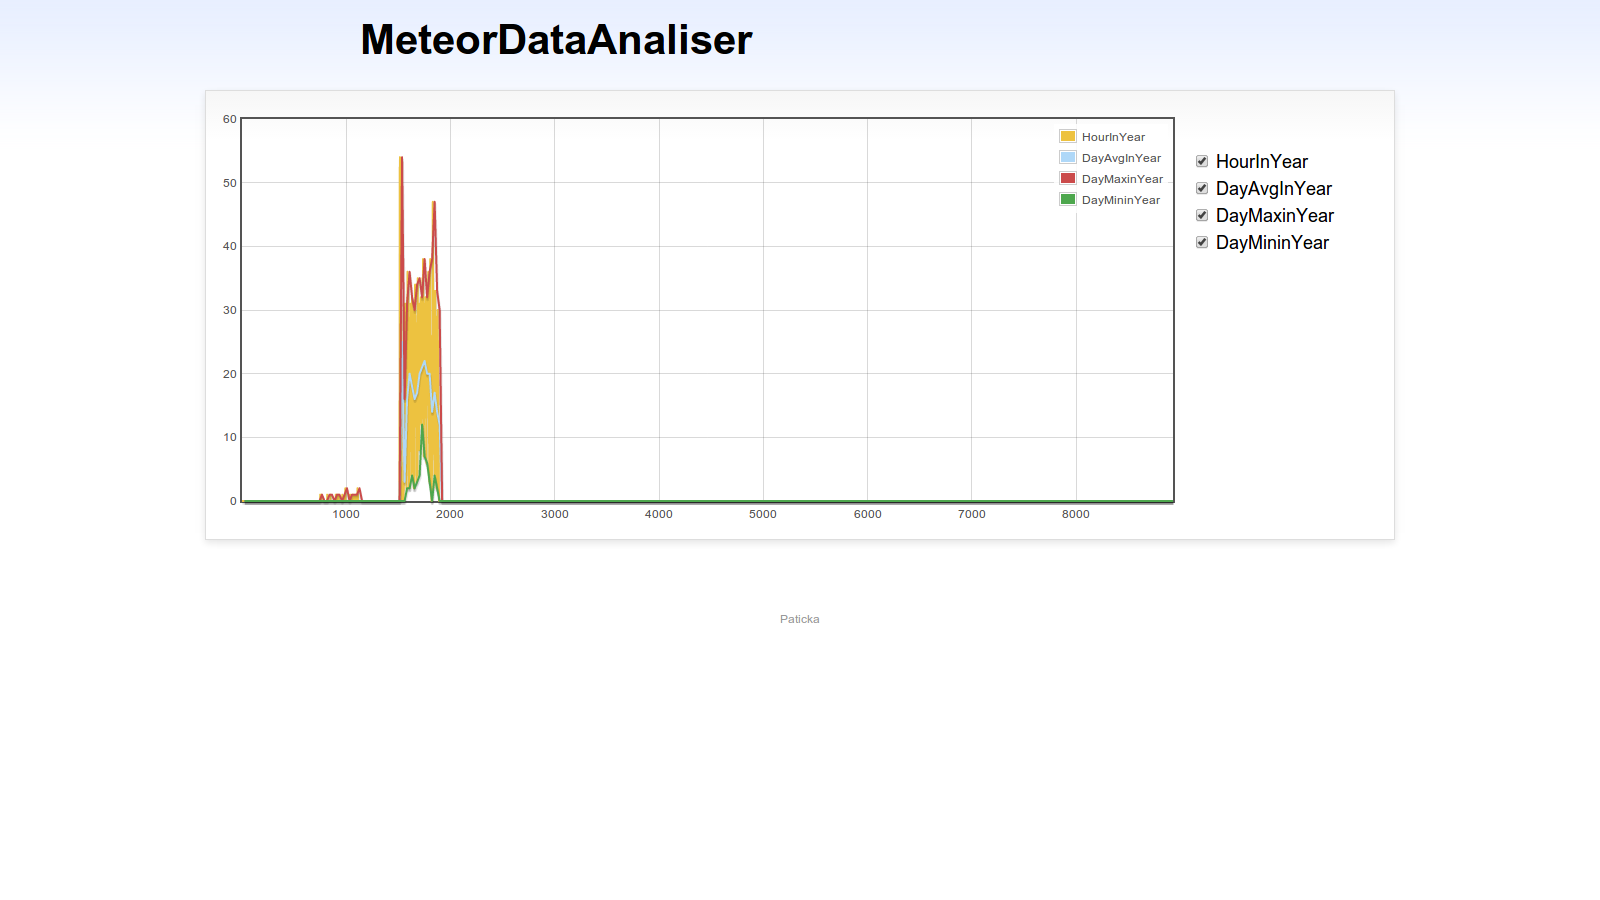
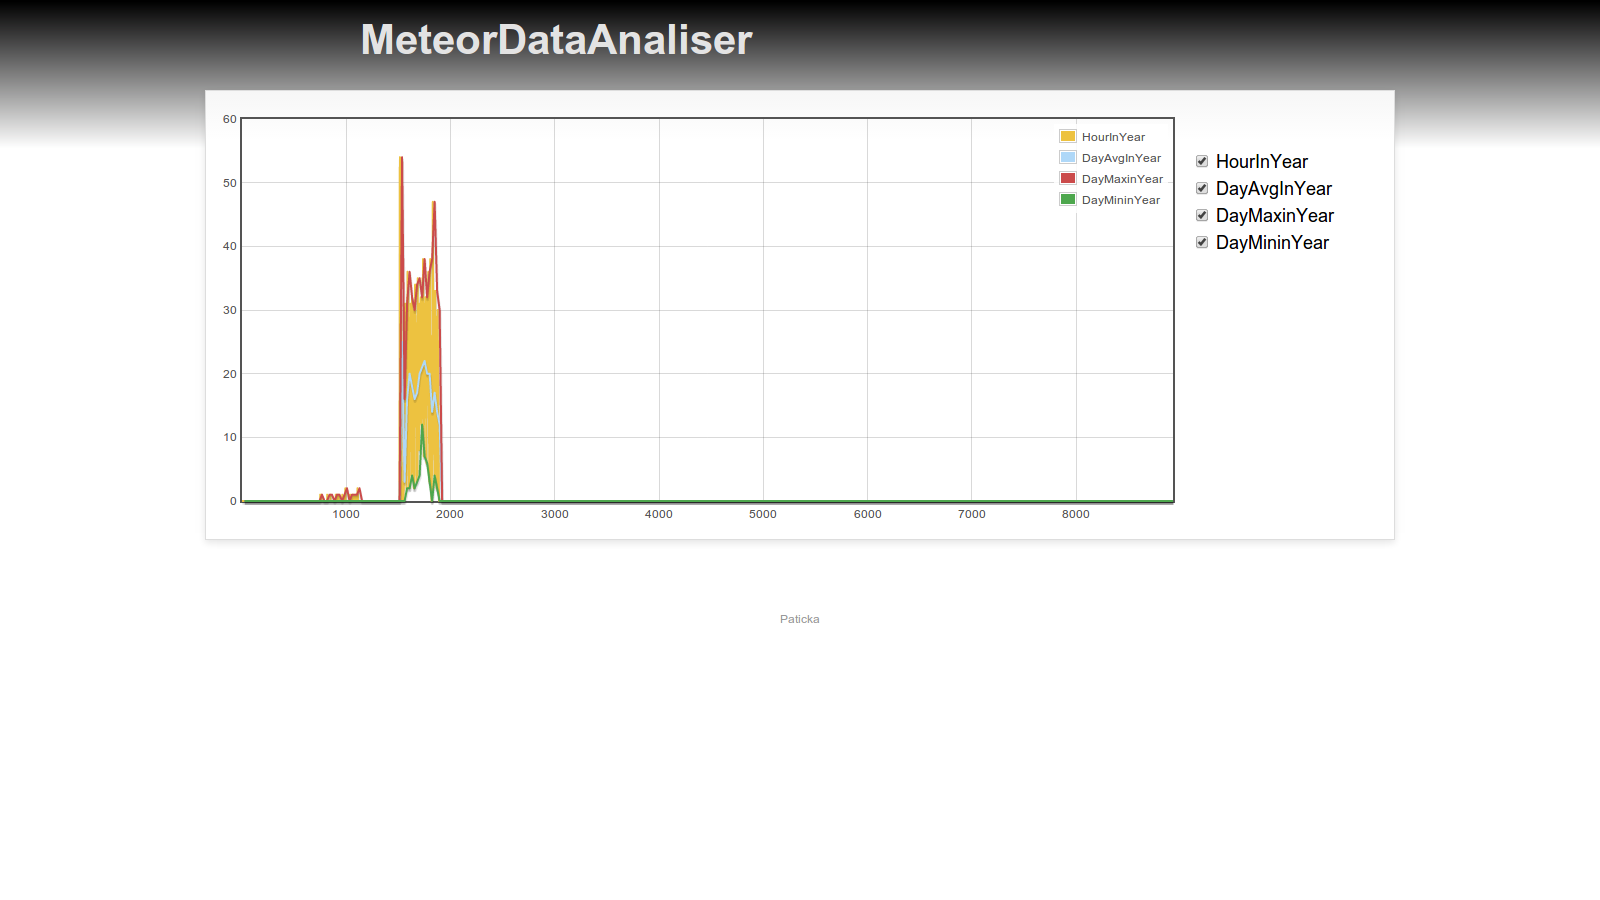
design

Changed region(s): [[0.0, 0.0, 1.0, 0.1556]]

diff --git a/examples.css b/examples.css
@@ -48,7 +48,7 @@ input[type=checkbox] {
 	font-size: 42px;
 	font-weight: bold;
 	text-decoration: none;
-	color: #000;
+	color: #e3e3e3;
 }
 
 #content {
